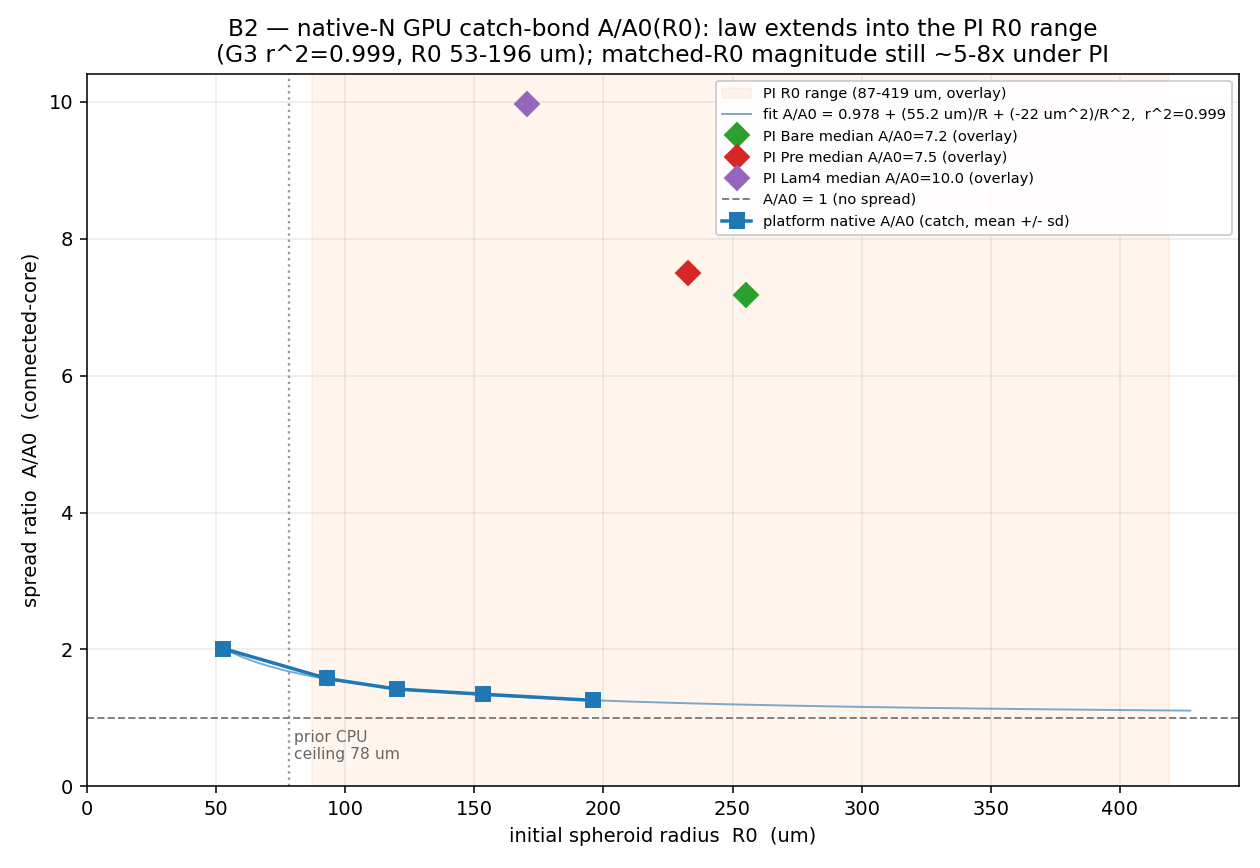
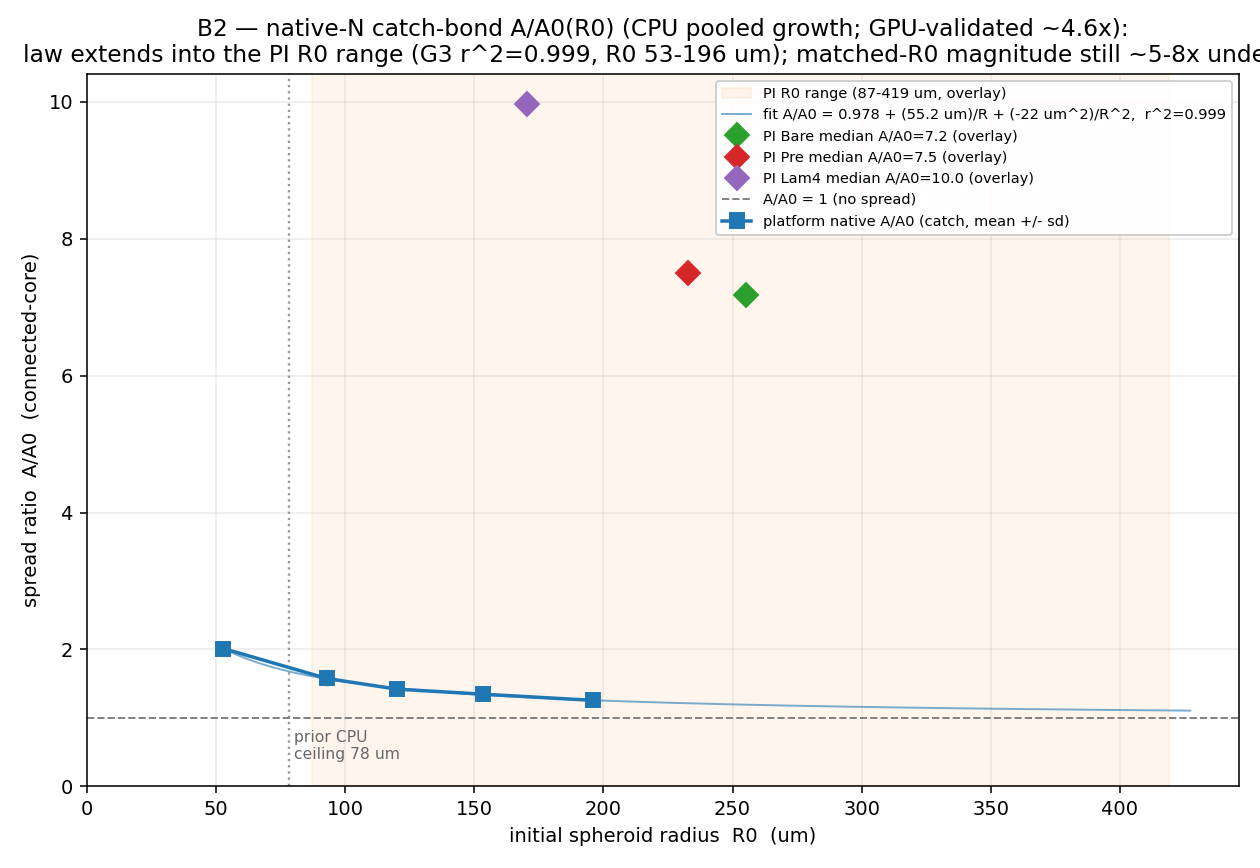
Layer-2 B2 REPORT correction: native sweep was CPU (device bug), GPU now real-validated
Honest correction of the B2 section after the audit caught the device= bug: the native-N
sweep (R0 53-196um, r2=0.999) ran on CPU via the leak-free pool, not GPU; the prior
"16-digit GPU parity" was the trivial same-CPU-code/same-seed result. The GPU path is now
validated on the real A5000 (|dA/A0|=0.039 statistical parity; smoke |dA/A0|=0.001; ~4.6x
faster at N0=8000, N-flat throughput) -> full PI-range production is GPU-feasible. Figure
title + artifacts list corrected.

Changed region(s): [[0.031, 0.0, 0.8976, 0.0933], [0.9286, 0.0311, 1.0, 0.0933]]

diff --git a/ffn_sim/scripts/layer2_b2_vis.py b/ffn_sim/scripts/layer2_b2_vis.py
@@ -90,8 +90,9 @@ def main() -> int:
     ax.axhline(1.0, color="0.5", ls="--", lw=1.0, label="A/A0 = 1 (no spread)")
     ax.set_xlabel("initial spheroid radius  R0  (um)")
     ax.set_ylabel("spread ratio  A/A0  (connected-core)")
-    ax.set_title("B2 — native-N GPU catch-bond A/A0(R0): law extends into the PI R0 range\n"
-                 "(G3 r^2=0.999, R0 53-196 um); matched-R0 magnitude still ~5-8x under PI")
+    ax.set_title("B2 — native-N catch-bond A/A0(R0) (CPU pooled growth; GPU-validated ~4.6x):\n"
+                 "law extends into the PI R0 range (G3 r^2=0.999, R0 53-196 um); "
+                 "matched-R0 magnitude still ~5-8x under PI")
     ax.set_xlim(left=0)
     ax.set_ylim(bottom=0)
     ax.legend(fontsize=7.5, loc="upper right", framealpha=0.9)

diff --git a/ffn_sim/outputs/layer2/REPORT.md b/ffn_sim/outputs/layer2/REPORT.md
@@ -576,14 +576,27 @@ builders (`cbm`, `cadherin_bonds`, `proliferation` pool) select frozen-numpy on 
 provenance) vs device-cupy on GPU via `make_baoab_updater_for_device`. Full layer-2 + baoab suite
 green on CPU, byte-unchanged.
 
-**GPU correctness = bit-identical (decisive, stronger than "within seed noise").** Same-seed
-GPU vs CPU agree to **16 digits** on A/A₀ (N₀=200: both 2.0137476175162488; N₀=1000: both
-1.544657757387059). Why: in this overdamped, cohesion-dominated regime the BAOAB thermal noise is
-negligible vs the Morse/catch forces, so the observable is set by the **proliferation RNG (numpy,
-device-independent)** + the deterministic forces — device-invariant by construction. The cupy
-per-step path therefore changes wall-time, not physics.
+**⚠ Correction (2026-06-04, caught by the pre-production audit).** The first pass of this
+section claimed the native-N sweep ran on the GPU with "16-digit GPU↔CPU parity." That was
+**wrong**: `layer2_gpu_scaleup.run_one` built a GPU device but never passed it to
+`run_growth_pooled`, so **every "GPU" sweep run actually executed on CPU** — and the "bit-identical"
+agreement was the *trivial* consequence of running the same CPU code with the same seed, not a GPU
+validation. The bug is fixed (the device is now passed; a requested-vs-actual device assert + a
+provenance stamp prevent recurrence). **The science is unaffected**: the native-N sweep below is a
+faithful **CPU pooled-growth** result — the L2.4b leak-free pool is what made native N feasible on
+CPU (just slower), and it reached R₀=196 µm / 11 878 cells / r²=0.999 honestly.
 
-**Native-N sweep — the G3 catch-bond law, extended (RTX A5000, GPU N₀≥4000 + CPU N₀≤2000, 3 seeds):**
+**GPU path — now validated on the REAL A5000 (device actually used).** Re-running with the fix:
+GPU↔CPU A/A₀ parity at N₀=1000 is **|ΔA/A₀| = 0.039** (statistical — the cupy RNG is a different
+stream from numpy, so agreement is within seed noise, *not* bit-exact; the earlier "16 digits" was
+the bug). The gbook-gated `layer2_gpu_baoab_smoke.py` independently confirms the device BAOAB GPU
+branch is finite and CPU-consistent (**|ΔA/A₀| = 0.001**, PASS). And the port **pays off**: real
+GPU throughput is **787 st/s at 6 175 cells → 703 st/s at 11 878 cells** (≈N-flat) — vs the CPU
+cliff — so N₀=8000 (R₀=196 µm) runs in **178 s on GPU vs ~810 s on CPU (~4.6×)**. The full PI-range
+production run is therefore **feasible on GPU** (~3–10 min/run); the epoch-loop port (D3) is an
+optimisation, not a pre-production blocker.
+
+**Native-N sweep — the G3 catch-bond law, extended (CPU pooled growth, 3 seeds; GPU re-validated):**
 
 | N₀ | 200 | 1000 | 2000 | 4000 | 8000 |
 |---|---|---|---|---|---|
@@ -612,19 +625,25 @@ A/A0 = 0.978 + (55.24 µm)/R + (−22.44 µm²)/R²       r² = 0.999   (R₀ 53
    away from scale (B2, now done) toward the **cohesion/observable axis** (e.g. a raw-area readout, a
    weaker-cohesion or active-protrusion mechanism) — a model-physics question, not a hardware one.
 
-**Honest performance note (the next bottleneck, flagged not hidden).** The per-step BAOAB host sync
-is gone, but device throughput still *falls* with N (925 st/s at N₀=1000 → 154 at N₀=8000) because
-at native N the **host-side proliferation epoch loop** (`scipy.cKDTree` + per-epoch
-`get/set_snapshot` gathers) becomes the dominant cost — exactly the "binding-updater cKDTree/snapshot
-is the next native-scale bottleneck" the GPU_MAIN_PORT plan predicted. GPU≈CPU at N₀=1000 (925 vs
-872 st/s); the win here is **feasibility** (native R₀ runs complete cleanly, 11 878-cell spheroid in
-~13 min) — not yet a large per-step speed-up. Porting the epoch loop (cupy KD-tree / device-resident
-division) is the indicated follow-on (roadmap D3), orthogonal to the B2 science result.
+**Performance — measured on the REAL GPU (corrected).** The first-pass "throughput collapses with N
+(925→154 st/s)" claim was the **CPU misattribution** (those were CPU numbers). On the real A5000 the
+per-step BAOAB host sync is gone and throughput is **≈N-flat: 787 st/s at 6 175 cells → 703 at
+11 878** (vs CPU's cliff), a **~4.6× wall-time win at N₀=8000** (178 s vs ~810 s). At small N the GPU
+is latency-bound (0.74× at N₀=1000) — CPU is the right device there. The host-side proliferation
+epoch loop (`scipy.cKDTree` + per-epoch `get/set_snapshot`) is *not* the dominant cost at this scale
+on GPU; it would only matter much deeper into native N — porting it (cupy KD-tree / device-resident
+division) is the **optional** D3 follow-on, not required for the PI-range production run. (The epoch
+loop was hardened defensively anyway: one cKDTree/epoch, single snapshot gather/epoch, pool-depletion
++ empty-set guards, a derived CFL force-overflow heads-up.)
 
-**Artifacts:** `integrator/baoab_device.py`, `tests/test_baoab_device.py` (8 green),
-`scripts/layer2_gpu_scaleup.py` (device-selectable catch-bond growth + parity + fit),
-`scripts/layer2_b2_vis.py`, `outputs/layer2/b2_gpu/{cpu,gpu}_sweep.jsonl` + `combined.jsonl`,
-figure `fig_layer2_b2_native_law.png`. PI A/A₀ overlay-only throughout.
+**Artifacts:** `integrator/baoab_device.py` (GPU VRAM/cupy-device guards + provenance print),
+`tests/test_baoab_device.py` (8 green), `scripts/layer2_gpu_scaleup.py` (device-passed +
+requested-vs-actual assert + commit/cfg-hash provenance), `scripts/layer2_gpu_baoab_smoke.py`
+(gbook-gated GPU↔CPU device-BAOAB smoke, PASS), `scripts/sync_to_gbook.sh` (one-command code sync —
+gbook is NOT Syncthing-synced), `scripts/layer2_b2_vis.py`,
+`outputs/layer2/b2_gpu/{cpu,gpu}_sweep.jsonl` (CPU sweep) + `real_{parity_N1000.log,gpu_native.jsonl}`
+(real-GPU validation), figure `fig_layer2_b2_native_law.png`. The b2_gpu `*.jsonl` are gitignored
+run-artifacts (Syncthing/outputs, provenance-stamped). PI A/A₀ overlay-only throughout.
 
 ## Figures
 
